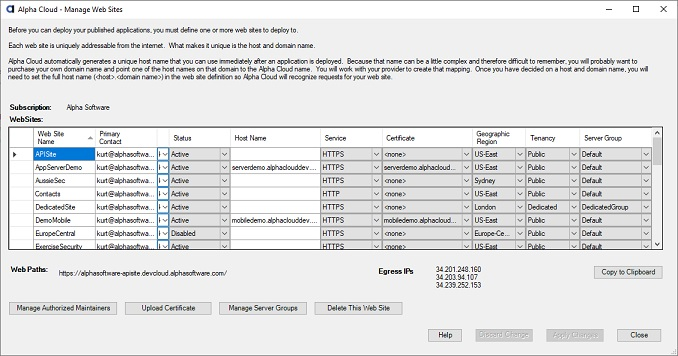
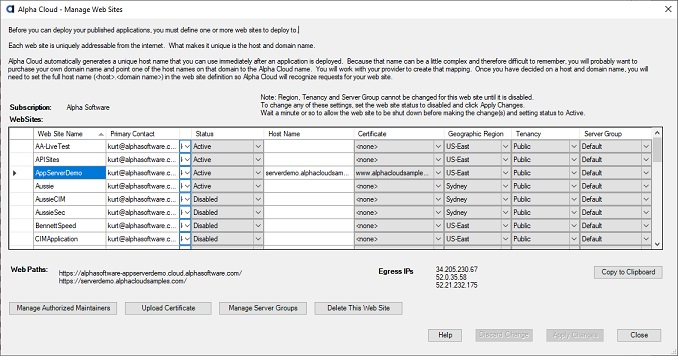
Remove references to Alpha Anywhere versions. Update screen shots that previously had web site service or Alpha Anywhere versions.

diff --git a/helpfiles/Guides/Alpha Cloud/Alpha Anywhere Developers Guide/Managing Web Sites.html b/helpfiles/Guides/Alpha Cloud/Alpha Anywhere Developers Guide/Managing Web Sites.html
@@ -49,16 +49,6 @@ the accounting application would be referenced using the URL "http://myhost.myco
 		This name must be globally unique across the internet and will not be effective until you update your DNS entries.
 		See <a href="Domains.html">Managing Domains</a>.
 		</dd>
-	<dt><strong>Service</strong></dt><dd>Determines whether users access your site using HTTP, HTTPS or both.
-		If you use only the automatically generated DNS name, Alpha Cloud manages both the DNS name and the TLS (also called SSL) certificate.
-		If you set a host name and enable TLS, you must also provide a certificate.<br/><br/>
-		<strong>WARNING: </strong>The option BOTH currently shown on the Manage Web Sites dialog is deprecated and will be removed very soon.
-		Please do not select BOTH, or you may find your web site no longer supports HTTP access in the near future.  Instead, select HTTPS.
-		If you select HTTPS, requests to HTTP will automatically be redirected to HTTPS and subsequent requests will be secure.  <br/><br/>
-		The HTTP option is considered insecure and should only be used for test sites where you want to set a host name but have not purchased a certificate.
-		This is rarely necessary because the Alpha Cloud generated URLs are backed by a certificate already.
-			
-		</dd>
 	<dt><strong>Certificate</strong></dt><dd>Select a certificate you have uploaded that matches the host name you provided.
 		If you provide a host name of your own, you must upload a valid certificate in order to support TLS (also called SSL).
 		The certificate will be installed on deployed servers automatically.
@@ -123,8 +113,7 @@ the accounting application would be referenced using the URL "http://myhost.myco
 <ol>
 <li>All valid web paths are displayed near the bottom of the dialog for the selected web site.
 You can copy any of the paths to the clipboard and paste them into a browser to access your deployed applications.
-You will see that although both (HTTP and HTTPS) are selected as services there is no HTTPS path for MySite.com.  
-This is because no certificate has been uploaded.</li>
+</li>
 <li>In some cases, you may need to provide an IP address to allow your running application to access a site on the internet or behind your own firewall.  Your deployed application may run on one or more servers distributed across availability zones (data centers).  When you access the internet from your running server, the Egress (source) IP address will depend on which zone your server is running in.  There can typically be up to three availability zones.  The Egress IPs textbox provides a list of IP addresses from which your web application may access the internet.</li>
 <li>You can get a summary of the currently selected web site properties in text form by clicking "Copy to Clipboard".  The text includes the web paths and the Egress IPs.</li>
 </ol>

diff --git a/helpfiles/Guides/Alpha Cloud/Alpha Anywhere Developers Guide/Managing Deployments.html b/helpfiles/Guides/Alpha Cloud/Alpha Anywhere Developers Guide/Managing Deployments.html
@@ -37,8 +37,9 @@ This includes the primary contact, the web site, application path, and options f
 </p>
 <p>The <strong>Deployment Schedule</strong> is a set of items that each have a unique and non-overlapping available start and stop datetime.
 Each item in the schedule represents the intended deployment options during that specific time range.
-As a result, you can "schedule" your application to be deployed with a specific version and a specific build of Alpha Anywhere Application Server for IIS at one time, 
-and then "schedule" a different version of your application at another time.
+As a result, you can "schedule" your application to be deployed with a specific version of the application and a specific build of 
+Alpha Anywhere Application Server for IIS at one time, 
+and then "schedule" a different version of your application or build of Alpha Anywhere Application Server for IIS at another time.
 Using this mechanism, you can roll application versions and server builds forward or backward as necessary.
 Scheduling a deployment is all that is required to make the change.
 </p>
@@ -114,7 +115,6 @@ You can see the scheduled deployment when you visit the "Manage Deployments" dia
 	<dt><strong>Status</strong></dt><dd>The default is "Active", but you can set a schedule to "Disabled" to prevent deployment (or stop it if it has already been deployed).</dd>
 	<dt><strong>Application Version</strong></dt><dd>The version number of the current application you want to deploy.
 		Application versions are a simple sequence number generated each time you publish to the Alpha Cloud.</dd>
-	<dt><strong>Alpha Anywhere Version</strong></dt><dd>The version of Alpha Anywhere Application Server for IIS that you want to run your deployed application with.</dd>
 	<dt><strong>Alpha Anywhere Build</strong></dt>
 		<dd><p>The build number of Alpha Anywhere Application Server for IIS that you want to run your deployed application with.
 			You can also choose the current released build and the current pre-release build number from dialog lists by name.
